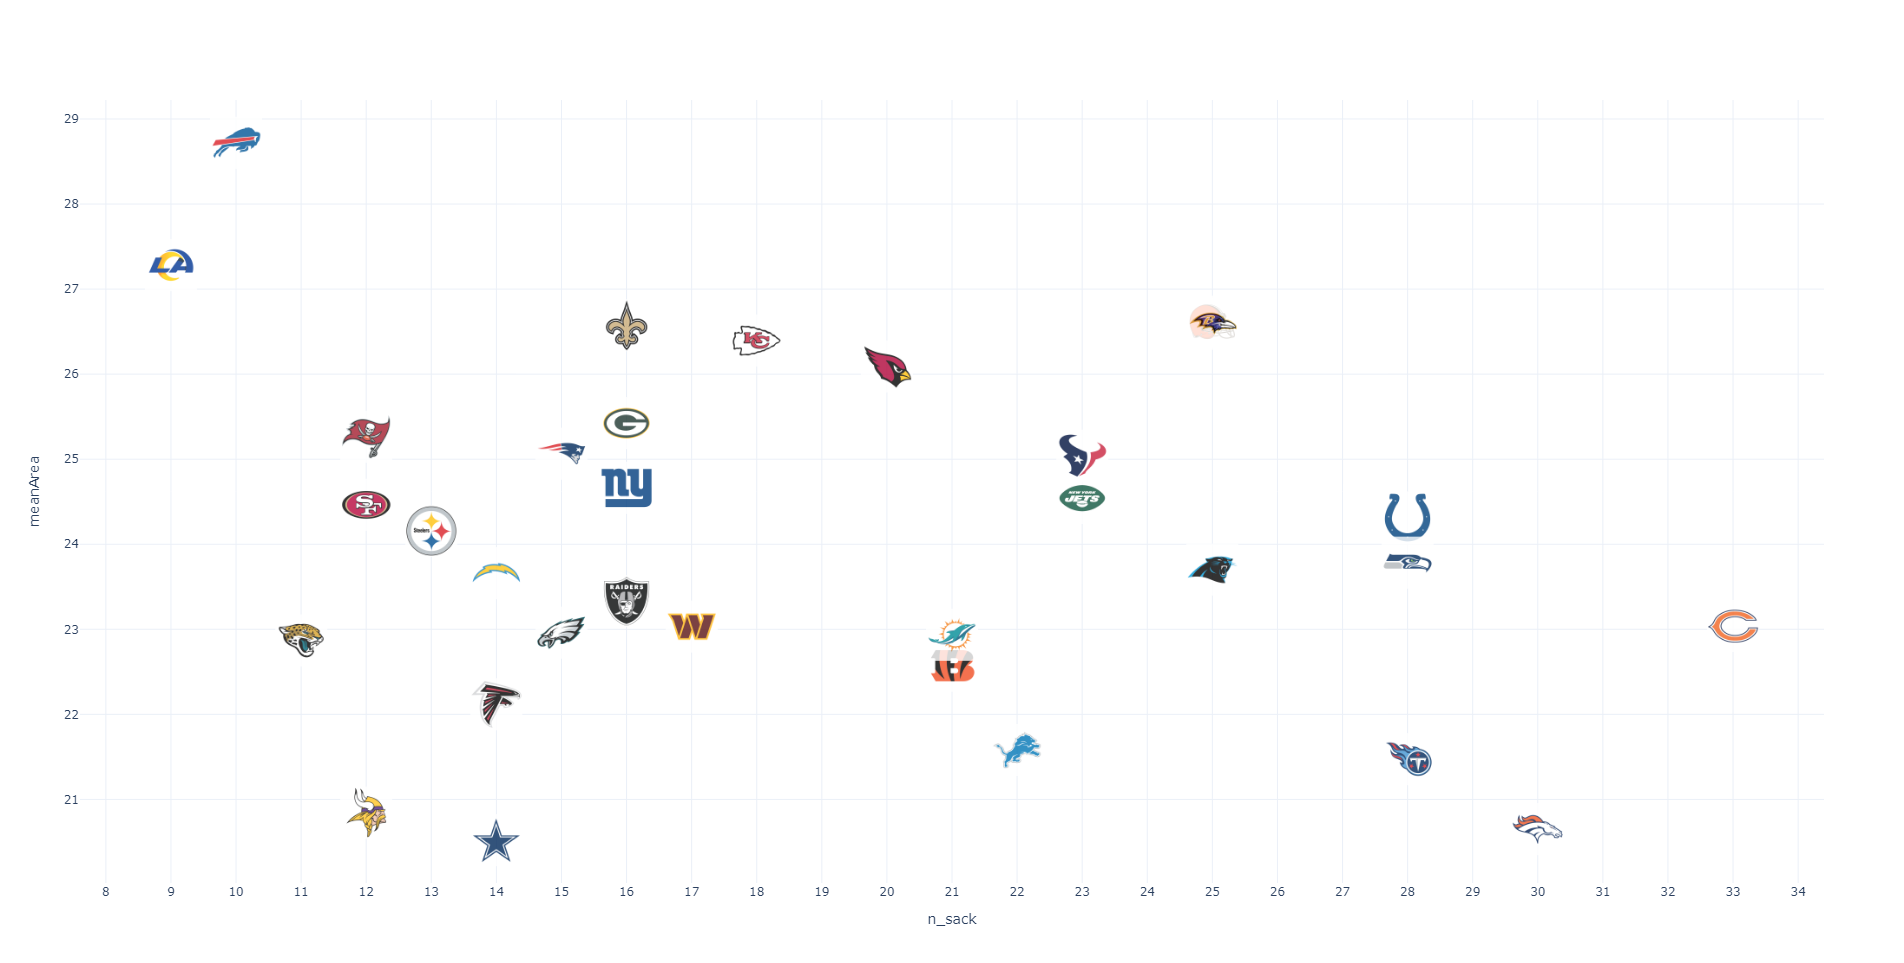
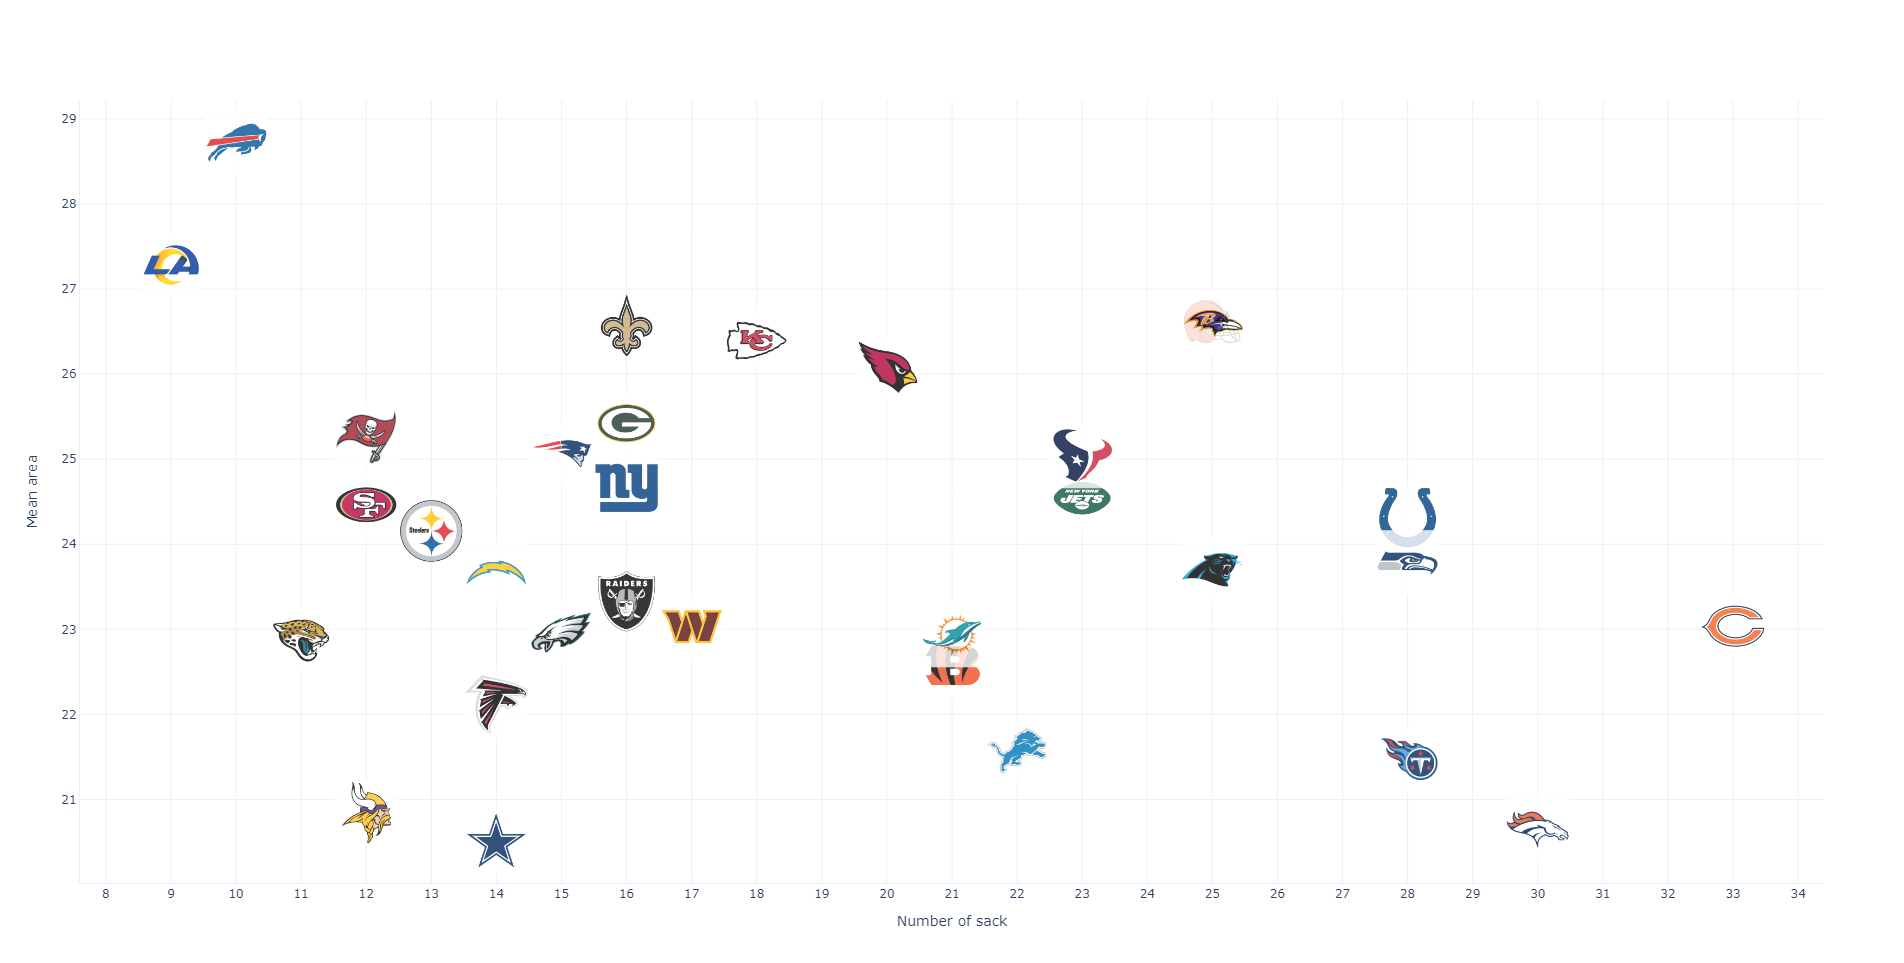
modification de figures

diff --git a/code/viz.py b/code/viz.py
@@ -373,7 +373,7 @@ def fig_bar_plot_team(df, metric, linemen, y_legend = "Legend", ascending_metric
         )
     return fig
 
-def fig_2D_plot_team(df, metric_x, metric_y, linemen, x_legend = "Legend", y_legend = "Legend", imagette_size = 2):
+def fig_2D_plot_team(df, metric_x, metric_y, linemen, x_legend = "Legend", y_legend = "Legend", plot_title = "", imagette_size = 2):
     """Trace le plot des équipes selon deux métriques et la ligne analysée"""
     fig = go.Figure(
         go.Scatter(
@@ -389,10 +389,16 @@ def fig_2D_plot_team(df, metric_x, metric_y, linemen, x_legend = "Legend", y_leg
     fig.update_layout(
                 barmode='group',
                 template="plotly_white",
+                title={
+                    'text': plot_title,
+                    'y':0.9,
+                    'x':0.5,
+                    'xanchor': 'center',
+                    'yanchor': 'top'}
     )
     fig.update_yaxes(
         title= dict(
-            text = metric_y,
+            text = y_legend,
         ),
         showline = True, 
         zerolinewidth = 2, 
@@ -401,7 +407,7 @@ def fig_2D_plot_team(df, metric_x, metric_y, linemen, x_legend = "Legend", y_leg
     )
     fig.update_xaxes(
         title= dict(
-            text = metric_x,
+            text = x_legend,
         ),
         tick0 = 1,
         dtick = 1,

diff --git a/validate_metrics.py b/validate_metrics.py
@@ -45,7 +45,7 @@ xsp_def = pd.merge(xsp_def,stat_def_test,how = "left", on = "defensiveTeam")
 data = df_area_off.groupby("n_sack").mean()
 np.corrcoef(data.index,data.meanArea) # -0.44
 np.corrcoef(df_area_off.n_sack,df_area_off.meanArea) # -0.26
-fig_2D_plot_team(df_area_off, "n_sack", "meanArea", "possessionTeam", imagette_size = 0.8)
+fig_2D_plot_team(df_area_off, "n_sack", "meanArea", "possessionTeam", x_legend = "Number of sack", y_legend = "Mean area", imagette_size = 1)
 
 ## Defense ##
 data = df_area_def.groupby("n_sack").mean()
@@ -76,7 +76,7 @@ data_off = pd.merge(xsp_off,area_off_test,how="left",on = "possessionTeam")
 np.corrcoef(data_off.xSuccessPocket,data_off.meanArea) # -0.06
 data_off.loc[:,"xSuccessPocket"] = data_off.loc[:,"xSuccessPocket"] - np.mean(data_off.loc[:,"xSuccessPocket"])
 data_off.loc[:,"meanArea"] = data_off.loc[:,"meanArea"] - np.mean(data_off.loc[:,"meanArea"])
-fig_2D_plot_team(data_off, "xSuccessPocket", "meanArea", "possessionTeam", imagette_size = 0.8)
+fig_2D_plot_team(data_off, "xSuccessPocket", "meanArea", "possessionTeam", x_legend = "PSOTE", y_legend = "Mean area", plot_title = "PSOTE and Mean area (computed on weeks 6, 7 and 8)", imagette_size = 1)
 
 ## Defense ##
 data_def = pd.merge(xsp_def,area_def_test,how="left",on = "defensiveTeam")
